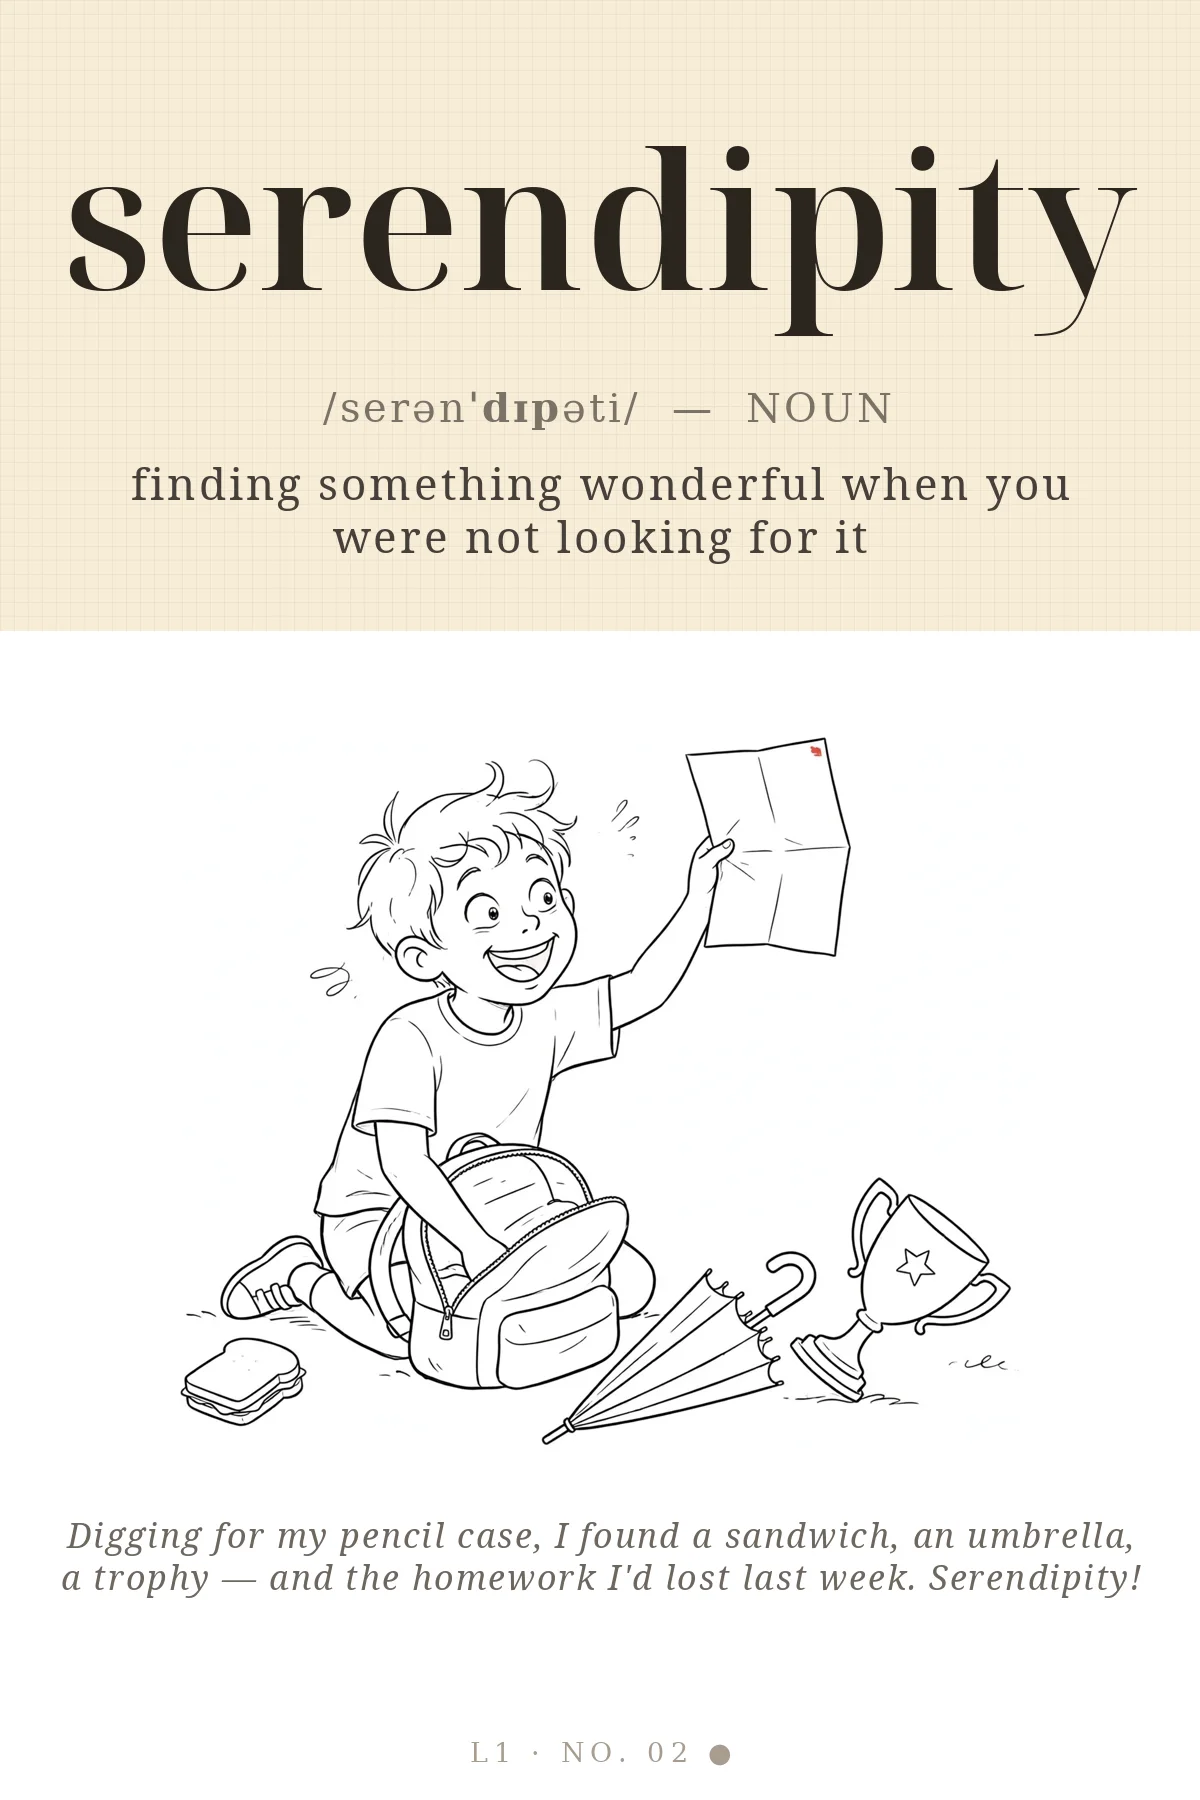
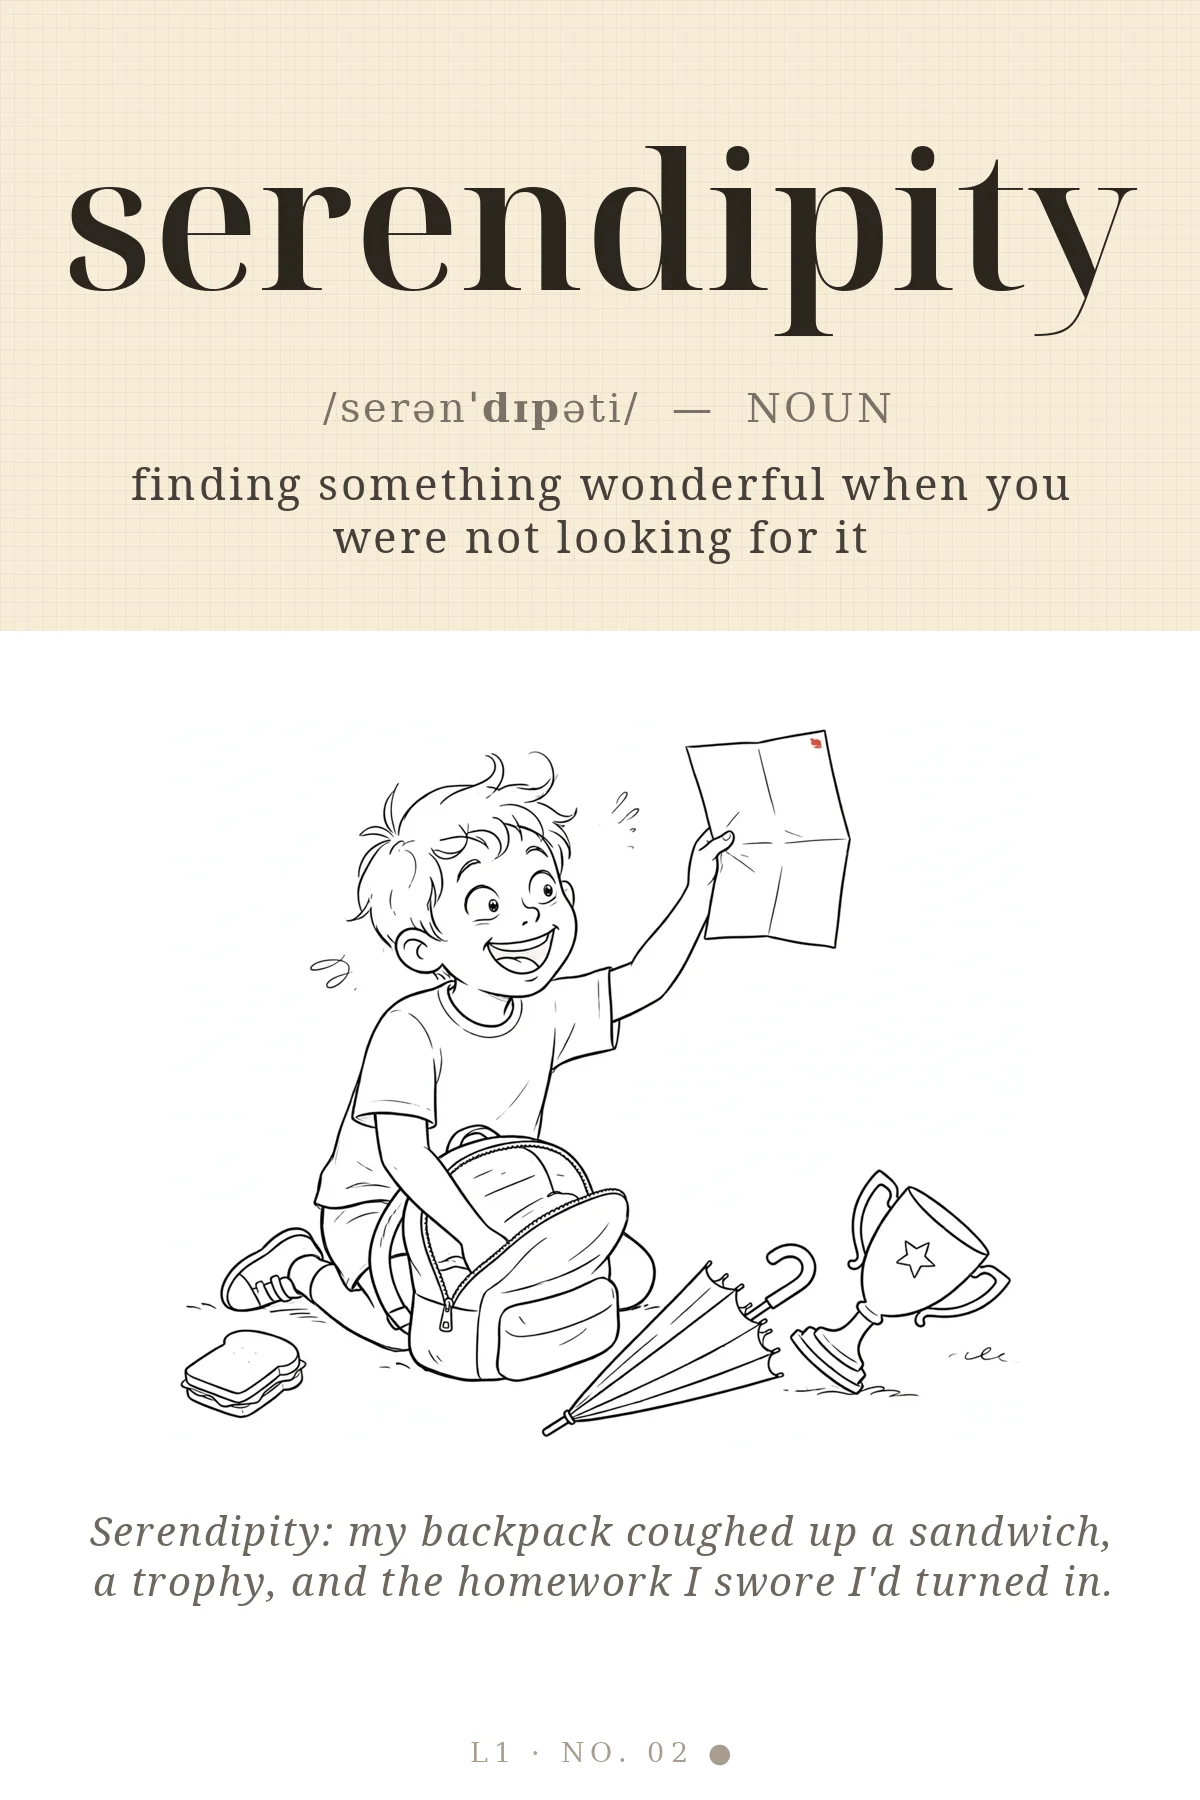
线条版扩到全60词：新增11–60卡图 + 第一组8张改句重渲，查看器扩容60词

Changed region(s): [[0.1542, 0.4044, 0.8325, 0.8089], [0.0617, 0.84, 0.9558, 0.9022]]

diff --git a/vocab-line/index.html b/vocab-line/index.html
@@ -3,7 +3,7 @@
 <head>
 <meta charset="utf-8">
 <meta name="viewport" content="width=device-width, initial-scale=1">
-<title>第二版 · 第一组 — Line Edition 单词卡</title>
+<title>第二版 · 全 60 词 — Line Edition 单词卡</title>
 <style>
   :root { --paper:#f5f4f0; --ink:#22201c; --red:#ae6557; --gray:#8a8880; }
   * { box-sizing:border-box; }
@@ -27,15 +27,15 @@
 </head>
 <body>
 <header>
-  <div class="kicker">LINE EDITION · L1 · 01–10</div>
-  <h1>第二版 · 第一组</h1>
+  <div class="kicker">LINE EDITION · L1 · 01–60</div>
+  <h1>第二版 · 全部六十词</h1>
   <div class="sub">杂志线条版单词卡 — 同一组词，另一种打开方式</div>
 </header>
 <main>
   <img id="card" src="cards/01-procrastinate.webp" alt="vocab card">
   <div class="nav">
     <button id="prev">← 上一张</button>
-    <span id="counter">1 / 10</span>
+    <span id="counter">1 / 60</span>
     <button id="next">下一张 →</button>
   </div>
   <div id="wordname">procrastinate</div>
@@ -46,7 +46,7 @@
   第一版水彩卡在 <a href="/vocab/" style="color:#ae6557">/vocab/</a>
 </footer>
 <script>
-  const words = ["procrastinate","serendipity","ephemeral","dilemma","chaos","irony","myth","genius","disaster","legend"];
+  const words = ["procrastinate","serendipity","ephemeral","dilemma","chaos","irony","myth","genius","disaster","legend","victory","mystery","trap","rumor","treasure","enemy","excuse","feast","marathon","phenomenon","exaggerate","hesitate","celebrate","multitask","cram","snooze","eavesdrop","doodle","binge","vanish","stumble","brag","panic","resist","jinx","daydream","fumble","chaotic","hilarious","awkward","suspicious","dramatic","epic","brutal","savage","clueless","exhausted","starving","obsessed","flawless","doomed","iconic","relatable","paradox","nemesis","plummet","thrive","vivid","relentless","bittersweet"];
   const files = words.map((w,i)=> "cards/" + String(i+1).padStart(2,"0") + "-" + w + ".webp");
   let i = 0;
   const img = document.getElementById("card"), counter = document.getElementById("counter"), name = document.getElementById("wordname");
